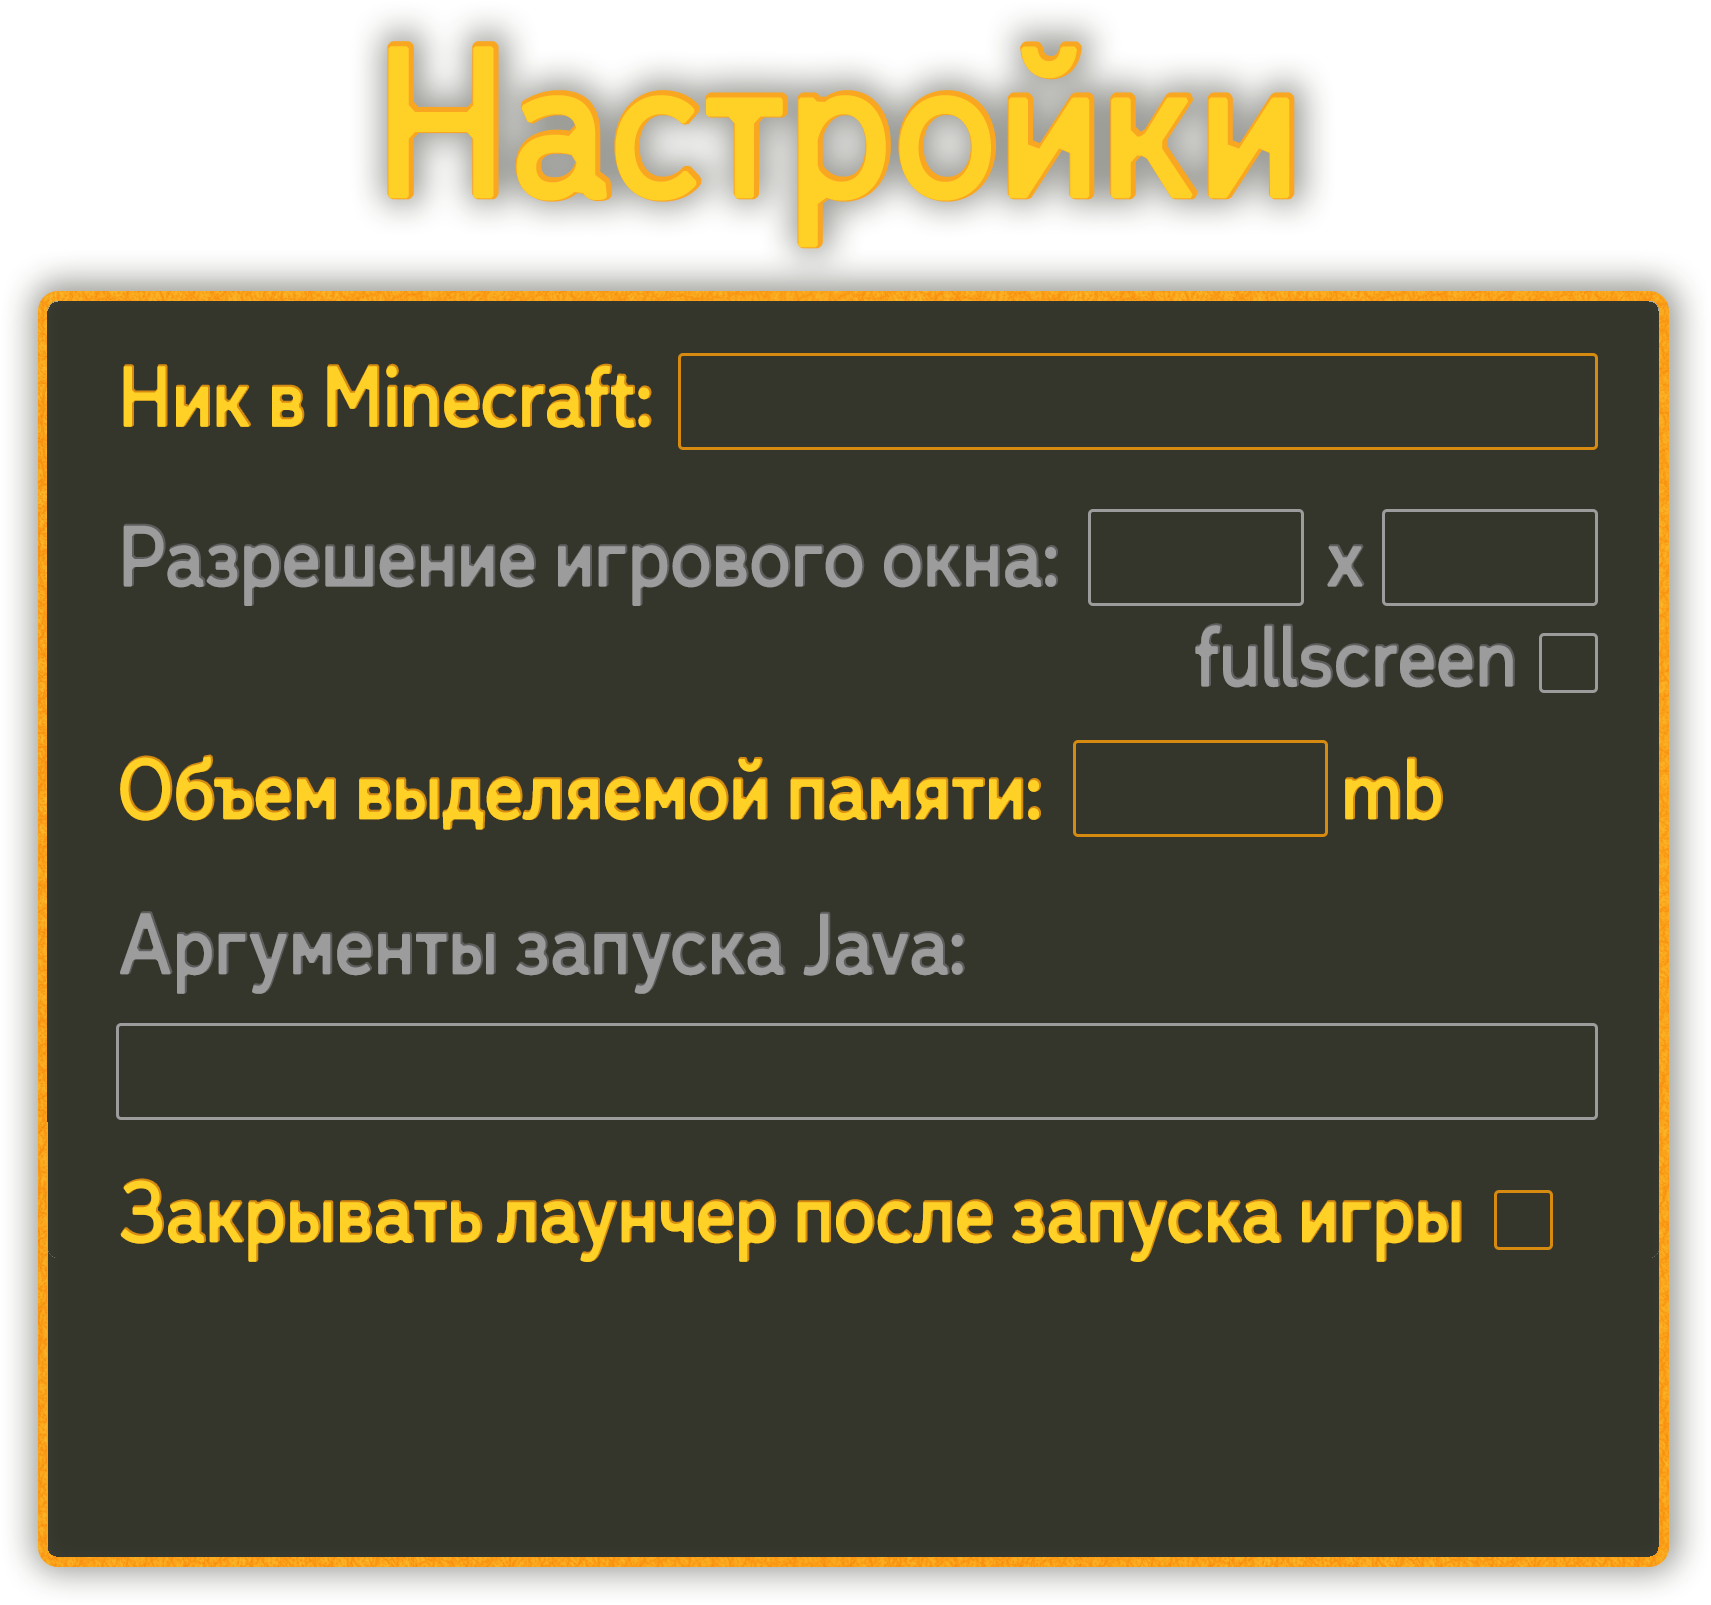
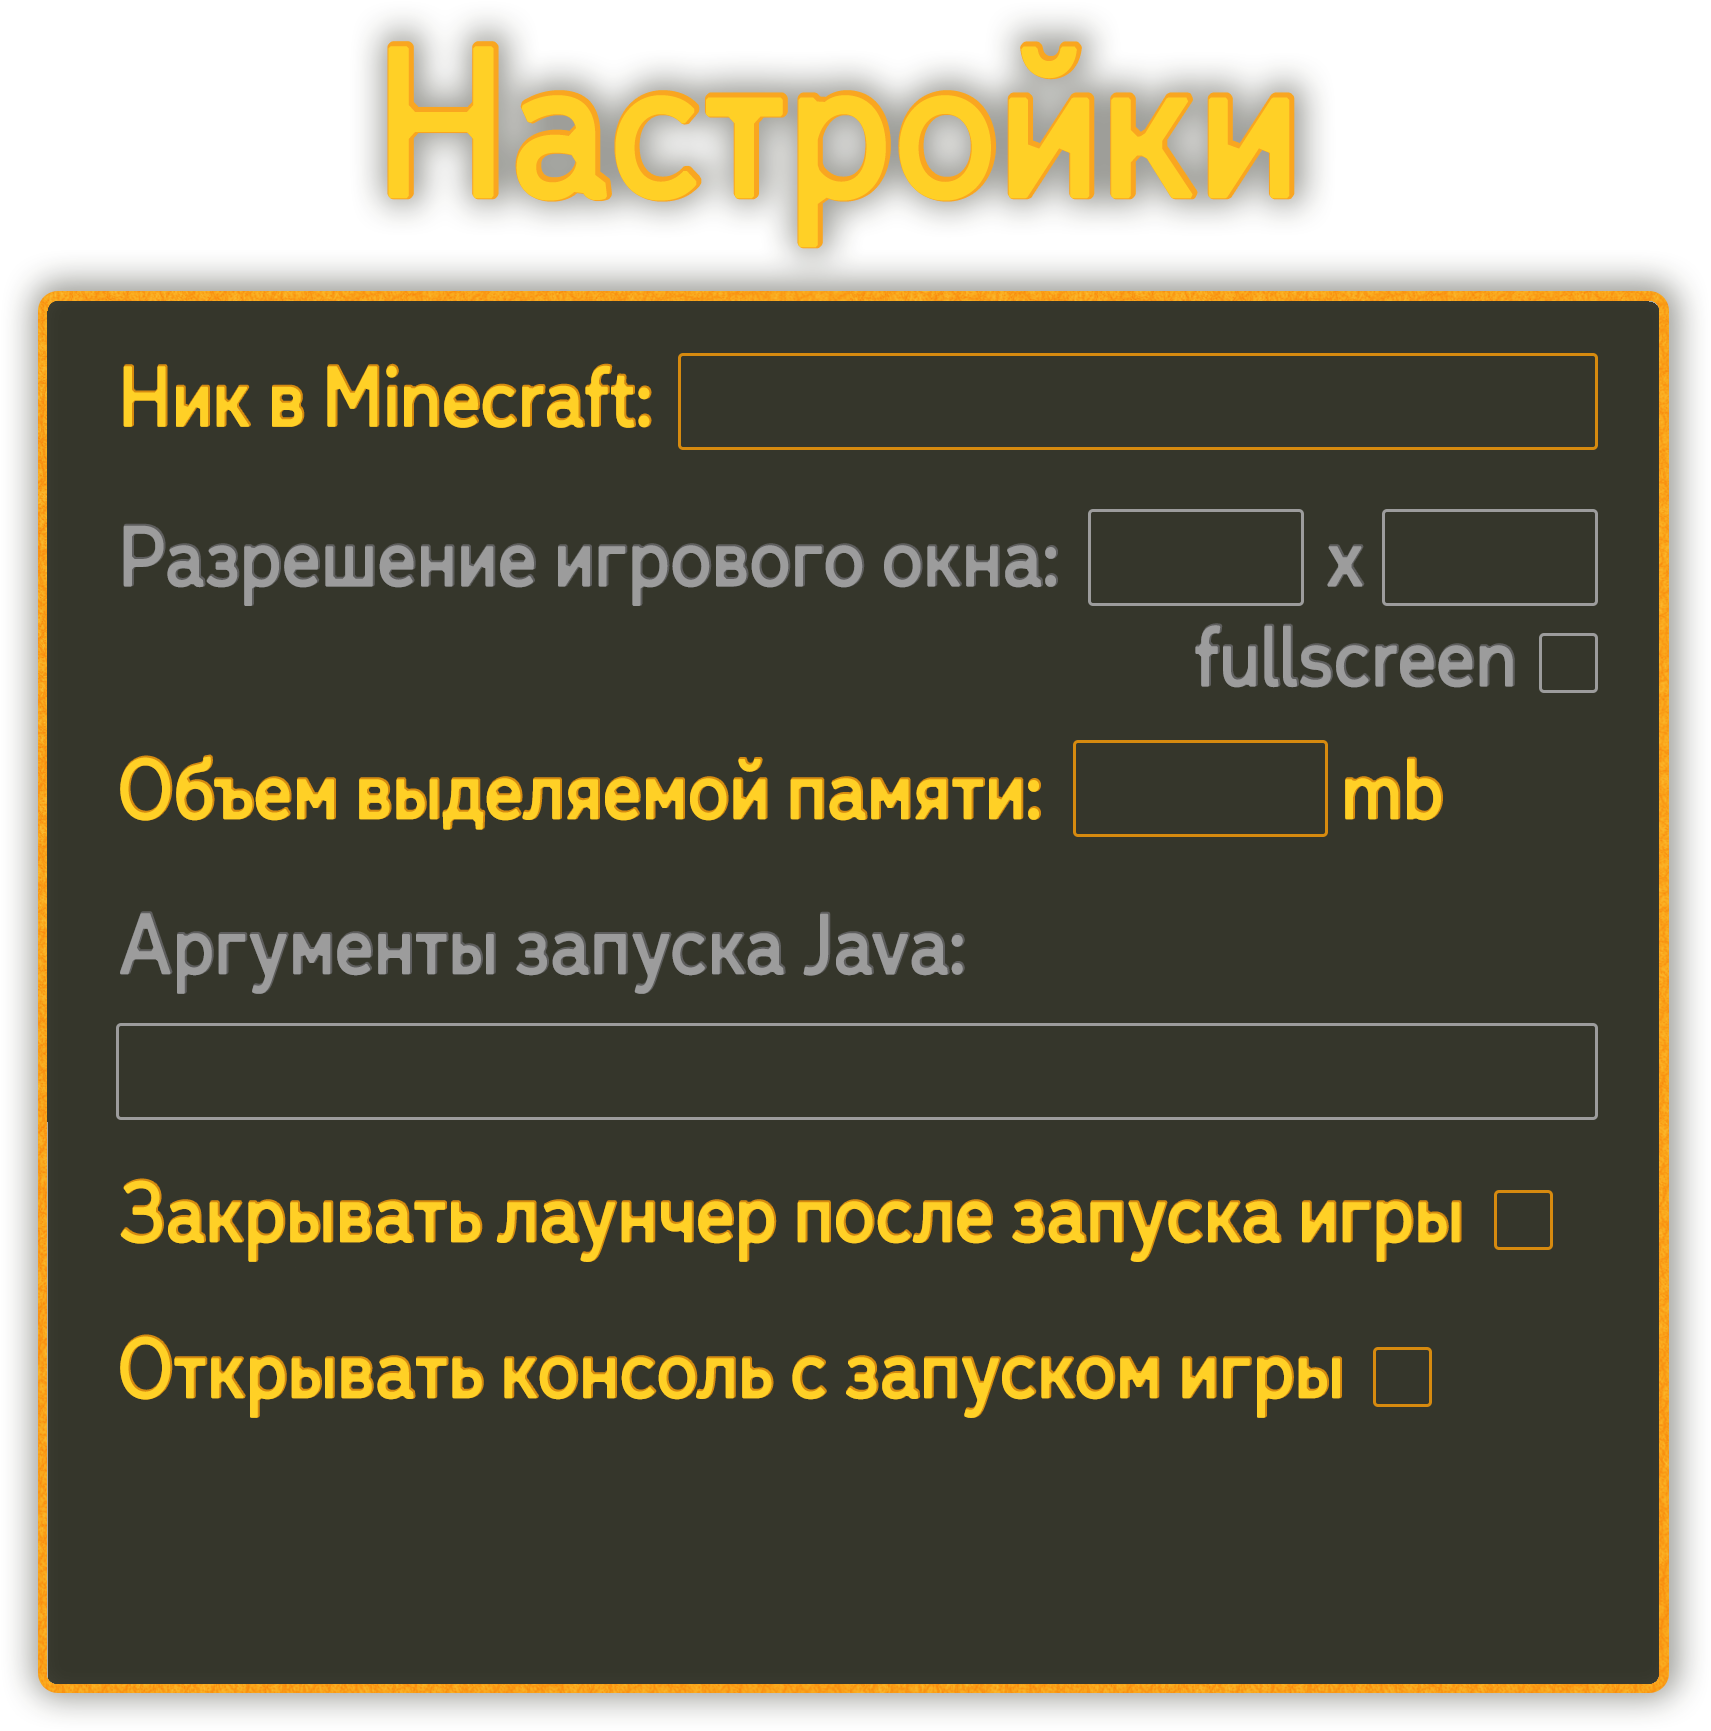
feat: OpenConsole + Launch arg to save path

diff --git a/MainWindow.axaml.cs b/MainWindow.axaml.cs
@@ -7,28 +7,61 @@ using Launcher.Services;
 using System;
 using System.Collections.Generic;
 using System.Diagnostics;
+using System.IO;
 using System.Net.Http;
 using AvaloniaProgressRing;
 using Debug = System.Diagnostics.Debug;
 using System.Reflection;
 using Launcher.Extensions;
+using CommandLine;
+using Launcher.Models;
 
 namespace Launcher
 {
     public partial class MainWindow : Window
     {
         private const float WindowScale = 0.8f;
-        private readonly ContentManager _contentManager;
-        private List<ProgressRing> _progressRings = new List<ProgressRing>();
+        private ContentManager _contentManager;
+        private readonly List<ProgressRing> _progressRings = new List<ProgressRing>();
         private bool _launchIsProcessing = false;
         private bool _settingsViewIsOpen = false;
 
         public MainWindow()
         {
+            Application? app = Application.Current;
+            if (app?.ApplicationLifetime is IClassicDesktopStyleApplicationLifetime desktopLifetime)
+            {
+                desktopLifetime!.Startup += (sender, args) =>
+                {
+                    Init(args.Args);
+                };
+            }
+        }
+
+        private void Init(IEnumerable<string> args)
+        {
+            ParseLaunchArgs(args);
             _contentManager = new ContentManager(new HttpClient());
             InitializeComponent();
 
             InitialResize();
+        }
+
+        private void ParseLaunchArgs(IEnumerable<string> args)
+        {
+            Parser.Default.ParseArguments<CommandLineOptions>(args)
+                .WithParsed<CommandLineOptions>(o =>
+                {
+                    if (!string.IsNullOrEmpty(o.Path))
+                    {
+                        DirectoryInfo dir = System.IO.Directory.CreateDirectory(o.Path);
+                        if (!dir.Exists)
+                        {
+                            throw new LaunchArgumentException($"Invalid launch argument: Path {o.Path} cant be created.");
+                        }
+                        LaunchSettings.Instance.DataPath = o.Path;
+                    }
+                });
         }
 
         private async void OnLoaded(object? sender, RoutedEventArgs e)
@@ -50,7 +83,7 @@ namespace Launcher
             settingsView.onApplyClicked += OnSettingsApplyClicked;
             settingsView.onCancelClicked += OnSettingsCancelClicked;
             var settings = _contentManager.GetSettings();
-            settingsView.UpdateView(settings.Username, settings.UseMemoryMB, settings.CloseLauncher);
+            settingsView.UpdateView(settings);
         }
 
         private async void InitButtons()
@@ -127,6 +160,7 @@ namespace Launcher
             settings.Username = settingsView.Username;
             settings.UseMemoryMB = Math.Max(2048, settingsView.Memory);
             settings.CloseLauncher = settingsView.CloseOnLaunch;
+            settings.OpenConsole = settingsView.OpenConsole;
             await _contentManager.SaveSettings(settings);
             ChangeSettingsViewVisibility(open: false);
         }
@@ -135,11 +169,11 @@ namespace Launcher
         {
             _settingsViewIsOpen = open;
             settingsView.IsVisible = open;
-            if (!open)
-            {
-                var settings = _contentManager.GetSettings();
-                settingsView.UpdateView(settings.Username, settings.UseMemoryMB, settings.CloseLauncher);
-            }
+
+            if (open) return;
+
+            Settings settings = _contentManager.GetSettings();
+            settingsView.UpdateView(settings);
         }
 
         private void OnVKClicked(object? sender, RoutedEventArgs e)

diff --git a/SettingsView.axaml.cs b/SettingsView.axaml.cs
@@ -3,6 +3,7 @@ using Avalonia.Interactivity;
 using Launcher.Services;
 using System;
 using System.Diagnostics;
+using Launcher.Models;
 
 namespace Launcher;
 
@@ -23,17 +24,19 @@ public partial class SettingsView : UserControl
         }
     }
     public bool CloseOnLaunch => closeOnLaunch.IsChecked ?? true;
+    public bool OpenConsole => openConsole.IsChecked ?? true;
 
     public SettingsView()
     {
         InitializeComponent();
     }
 
-    public void UpdateView(string username, int memory, bool closeOnLaunch)
+    public void UpdateView(Settings settings)
     {
-        this.username.Text = username;
-        this.memory.Text = memory.ToString();
-        this.closeOnLaunch.IsChecked = closeOnLaunch;
+        this.username.Text = settings.Username;
+        this.memory.Text = settings.UseMemoryMB.ToString();
+        this.closeOnLaunch.IsChecked = settings.CloseLauncher;
+        this.openConsole.IsChecked = settings.OpenConsole;
     }
 
     private void OnApplyClicked(object? sender, RoutedEventArgs e)

diff --git a/Services/ContentManager.cs b/Services/ContentManager.cs
@@ -173,7 +173,7 @@ public class ContentManager
     public static string GetLocalDataPath(params string[] relativePath)
     {
         var path = new string[relativePath.Length + 1];
-        path[0] = Environment.GetFolderPath(Environment.SpecialFolder.LocalApplicationData);
+        path[0] = LaunchSettings.Instance.DataPath;
         Array.Copy(relativePath, 0, path, 1, relativePath.Length);
         return Path.Join(path);
     }
@@ -227,7 +227,8 @@ public class ContentManager
     private string GetJavaPath(string javaDist)
     {
         if (!_settings.DownloadedContent.Contains(javaDist)) return "";
-        return GetLocalDataPath(RootPath, ContentDownloader.JavaPath, javaDist, "bin/java.exe");
+        string javaPath = _settings.OpenConsole ? "bin/java.exe" : "bin/javaw.exe";
+        return GetLocalDataPath(RootPath, ContentDownloader.JavaPath, javaDist, javaPath);
     }
 
     private async Task InstallJava(string javaDist)

diff --git a/Services/LaunchSettings.cs b/Services/LaunchSettings.cs
@@ -1,0 +1,19 @@
+using System;
+
+namespace Launcher.Services;
+
+public class LaunchSettings
+{
+    private static readonly Lazy<LaunchSettings> LazyLoader = new Lazy<LaunchSettings>(() =>
+    {
+        return new LaunchSettings(Environment.GetFolderPath(Environment.SpecialFolder.LocalApplicationData));
+    });
+    public static LaunchSettings Instance => LazyLoader.Value;
+
+    public LaunchSettings(string dataPath)
+    {
+        DataPath = dataPath;
+    }
+
+    public string DataPath { get; set; }
+}

diff --git a/Models/Settings.cs b/Models/Settings.cs
@@ -10,6 +10,7 @@ namespace Launcher.Models
         public int WindowSizeY { get; set; } = 854;
         public bool FullScreen { get; set; } = false;
         public bool CloseLauncher { get; set; } = false;
+        public bool OpenConsole { get; set; } = true;
         public int UseMemoryMB { get; set; } = 6144;
         public string JavaArguments { get; set; } = "";
         public List<string> DownloadedContent { get; set; } = new List<string>();

diff --git a/Extensions/Exceptions.cs b/Extensions/Exceptions.cs
@@ -3,4 +3,10 @@
 namespace Launcher.Extensions
 {
     public class InvalidUsernameException : Exception { };
+
+    public class LaunchArgumentException : Exception
+    {
+        public LaunchArgumentException(string message)
+            : base(message) { }
+    };
 }

diff --git a/App.axaml.cs b/App.axaml.cs
@@ -1,7 +1,10 @@
+using System;
 using Avalonia;
 using Avalonia.Controls.ApplicationLifetimes;
 using Avalonia.Markup.Xaml;
-using Launcher.Services;
+using CommandLine;
+using Launcher.Models;
+using Debug = System.Diagnostics.Debug;
 
 namespace Launcher
 {

diff --git a/Models/CommandLineOptions.cs b/Models/CommandLineOptions.cs
@@ -1,0 +1,9 @@
+using CommandLine;
+
+namespace Launcher.Models;
+
+public class CommandLineOptions
+{
+    [Option('p', "path", Required = false, HelpText = "Launcher data path to save minecraft to")]
+    public string Path { get; set; }
+}
